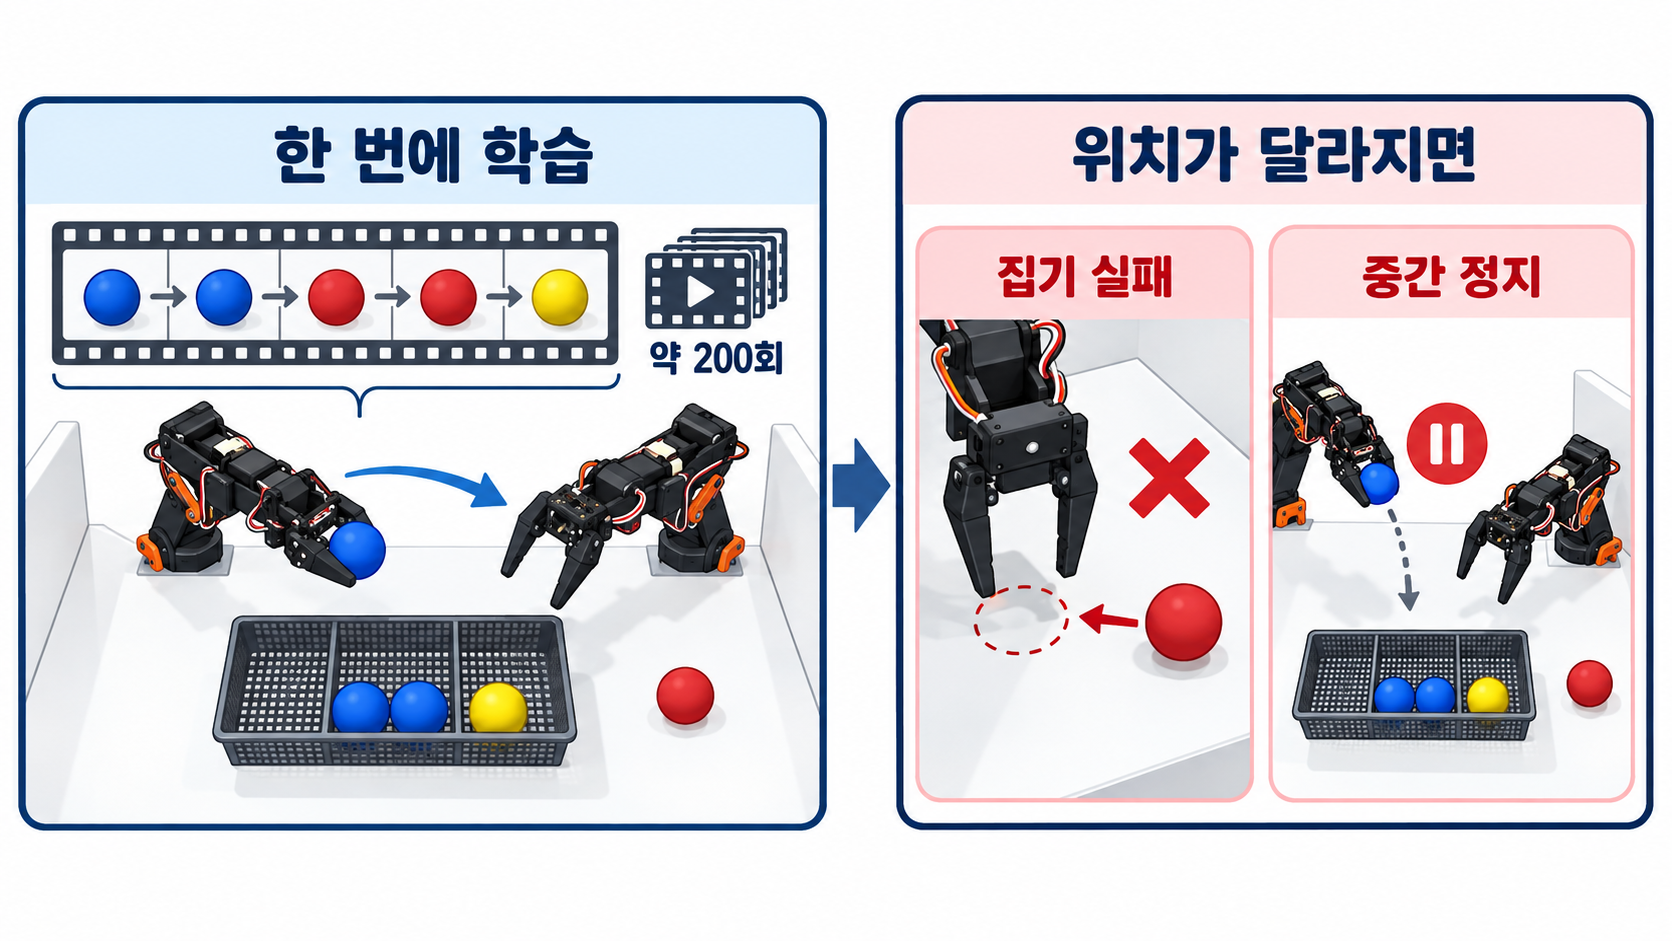
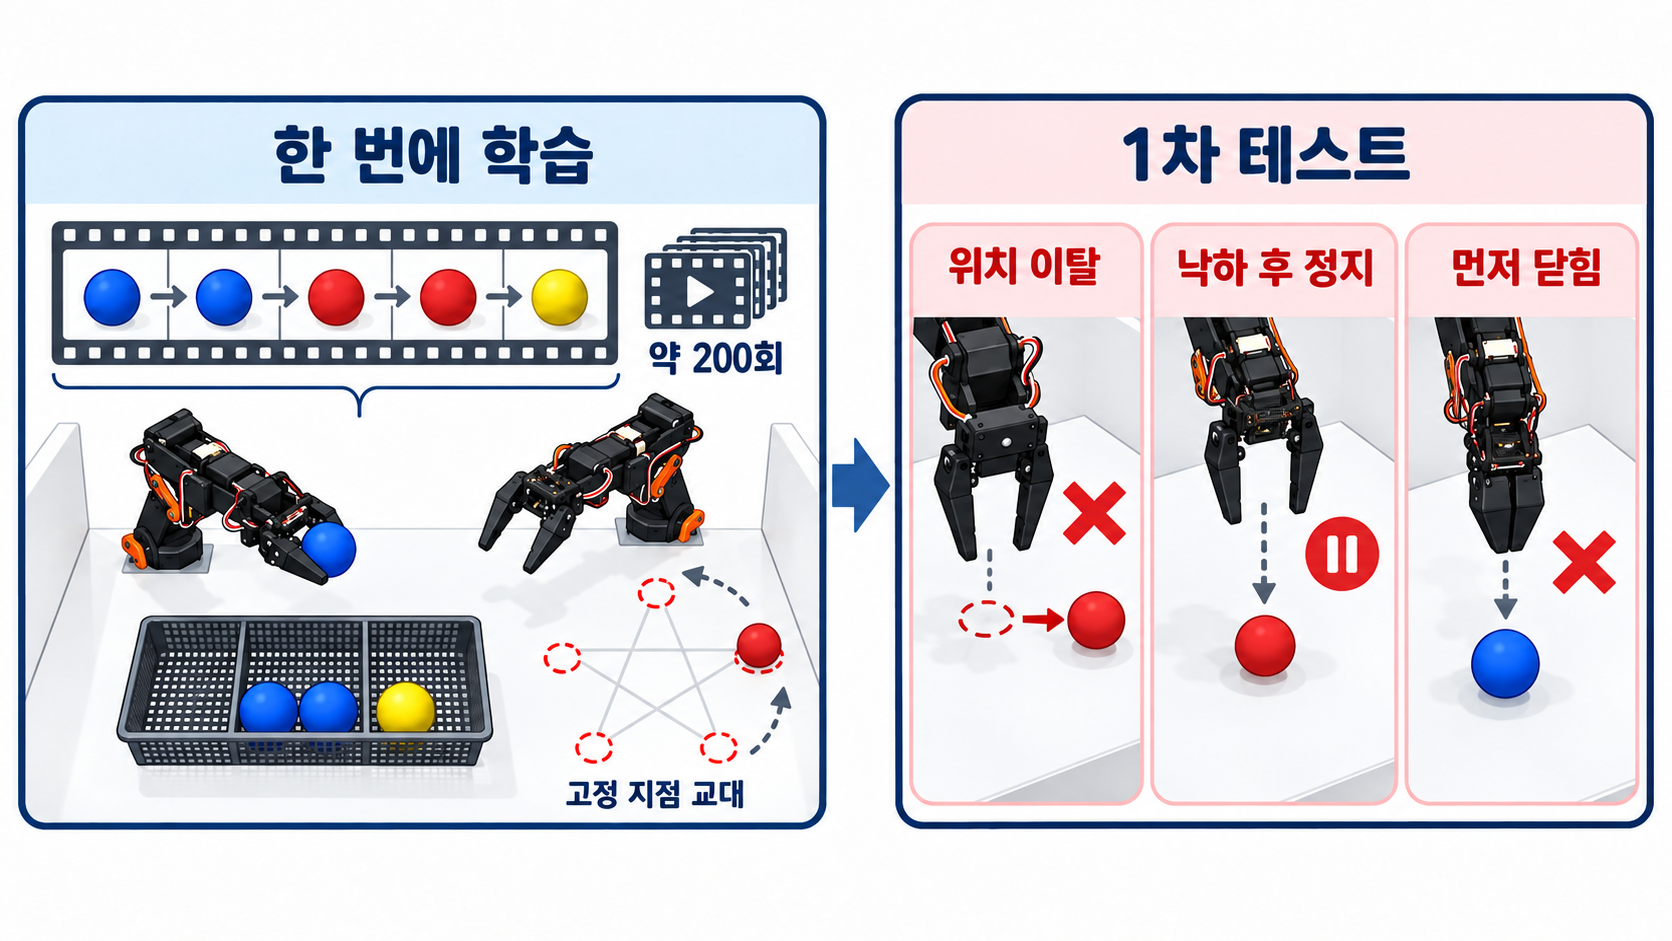
Clarify fixed pickup positions and first-test failures

diff --git a/projects/physical-ai-hackathon.html b/projects/physical-ai-hackathon.html
@@ -49,9 +49,10 @@
 
         <section class="case-section" id="ko-1차-시도-다섯-개의-공을-한-번에-학습시키기">
           <div class="case-heading"><h2>1차 시도: 다섯 개의 공을 한 번에 학습시키기</h2></div>
-          <p>공의 위치를 임의로 정해 고정한 뒤, <strong>파랑 → 파랑 → 빨강 → 빨강 → 노랑</strong> 순서로 다섯 공을 집어 전달하고 분류하는 전체 시퀀스를 한 번에 기록했습니다. 이 과정을 약 200회 반복해 학습 데이터를 수집했습니다.</p>
+          <p>수납함 오른쪽에 별 모양의 꼭짓점을 따라 공을 놓을 지점을 정하고, 이 고정 지점들을 번갈아 사용했습니다. <strong>파랑 → 파랑 → 빨강 → 빨강 → 노랑</strong> 순서로 다섯 공을 집어 전달하고 분류하는 전체 시퀀스를 한 번에 기록해, 약 200개의 시연 데이터를 수집했습니다.</p>
+<h3>1차 테스트</h3>
 <p>테스트에서는 공을 떨어뜨리면 다시 집지 못하고 멈췄고, 공이 학습 때 고정한 위치에서 벗어나면 제대로 집지 못했습니다. 수직으로 접근하는 과정에서는 공에 닿기 전에 집게를 먼저 닫는 현상도 발생했습니다.</p>
-<figure class="feature-media hackathon-act-media"><img src="../assets/images/physical-ai-first-attempt.png" alt="파랑·파랑·빨강·빨강·노랑 순서의 전체 동작을 약 200회 학습한 뒤, 위치 변화로 집기에 실패하거나 중간에 멈추는 양팔 로봇의 1차 시도를 설명한 그림" loading="lazy"></figure>
+<figure class="feature-media hackathon-act-media"><img src="../assets/images/physical-ai-first-attempt.png" alt="수납함 오른쪽의 별 모양 고정 지점을 번갈아 사용한 시연 수집과, 위치 이탈 시 집기 실패·공 낙하 후 정지·수직 접근 중 집게 조기 닫힘을 설명한 그림" loading="lazy"></figure>
         </section>
 
         <section class="case-section" id="ko-2차-시도-공-하나씩-학습하고-실패-복구도-기록하기">
@@ -63,7 +64,7 @@
 
         <section class="case-section" id="ko-심사-결과">
           <div class="case-heading"><h2>심사 결과</h2></div>
-          <p>공 5개를 각각 200회씩 시연해 약 1,000개의 학습 데이터를 수집했습니다. 오전 9시 마감에 맞춰 15,000 step까지 학습한 모델로 심사를 진행했습니다.</p>
+          <p>공 5개를 각각 200회씩 시연해 약 1,000개의 학습 데이터를 수집했습니다. 오전 9시 마감에 맞춰 15,000 step까지 학습한 모델로 심사를 진행했습니다. <a href="https://huggingface.co/Moment-Lab/act_hackathon_roboseasy_final/blob/main/train_config.json">공개 최종 모델의 학습 설정</a>은 50,000 step으로, 심사에 사용한 모델과 구분됩니다.</p>
 <p>공 3개는 집기·전달·색상별 분류까지 연속으로 성공했습니다. 네 번째 공을 처리하던 중 오른팔이 수납함을 넘어뜨려 시연을 중단해 완주하지 못했고, 아쉽게 수상하지는 못했습니다.</p>
 <figure class="feature-media hackathon-wide-media"><img src="https://raw.githubusercontent.com/TheMomentLab/physical_ai_hackathon/main/assets/demo.gif" alt="두 SO-101 로봇팔이 공을 집어 서로 전달하고 색상별 수납함에 넣는 실제 시연" loading="lazy"></figure>
         </section>
@@ -113,9 +114,10 @@
 
         <section class="case-section" id="en-first-attempt-learn-all-five-balls-in-one-sequence">
           <div class="case-heading"><h2>First attempt: learn all five balls in one sequence</h2></div>
-          <p>We chose fixed positions for the balls and recorded the full sequence of picking, transferring, and sorting them in the order <strong>blue → blue → red → red → yellow</strong> as a single episode. We repeated this process about 200 times to collect training data.</p>
+          <p>We defined fixed pickup positions at the tips of a star-shaped layout to the right of the basket and alternated between these positions. We recorded about 200 demonstrations, each covering the full sequence of picking, transferring, and sorting five balls in the order <strong>blue → blue → red → red → yellow</strong>.</p>
+<h3>First test</h3>
 <p>During testing, the robot stopped after dropping a ball instead of picking it up again, and struggled to grasp balls placed outside the fixed training positions. During vertical approaches, the gripper also closed before reaching the ball.</p>
-<figure class="feature-media hackathon-act-media"><img src="../assets/images/physical-ai-first-attempt.png" alt="Illustration of the first attempt: about 200 demonstrations of blue, blue, red, red, and yellow balls in one sequence, followed by missed grasps and mid-sequence stops when positions change" loading="lazy"></figure>
+<figure class="feature-media hackathon-act-media"><img src="../assets/images/physical-ai-first-attempt.png" alt="Alternating fixed pickup points in a star-shaped layout beside the basket, followed by failed grasps outside those points, stopping after a dropped ball, and premature gripper closure during vertical approach" loading="lazy"></figure>
         </section>
 
         <section class="case-section" id="en-second-attempt-learn-one-ball-at-a-time-and-record-recovery">
@@ -127,7 +129,7 @@
 
         <section class="case-section" id="en-judging-result">
           <div class="case-heading"><h2>Judging result</h2></div>
-          <p>We collected about 1,000 training demonstrations, 200 for each of five balls. To meet the 9 a.m. deadline, we used the model trained to 15,000 steps for judging.</p>
+          <p>We collected about 1,000 training demonstrations, 200 for each of five balls. To meet the 9 a.m. deadline, we used the model trained to 15,000 steps for judging. The <a href="https://huggingface.co/Moment-Lab/act_hackathon_roboseasy_final/blob/main/train_config.json">published final model configuration</a> specifies 50,000 steps, distinct from the model used for judging.</p>
 <p>The robots picked, transferred, and sorted three balls consecutively. While handling the fourth, the right arm knocked over a bin, ending the demonstration before we could complete the full sequence. Unfortunately, we did not win an award.</p>
 <figure class="feature-media hackathon-wide-media"><img src="https://raw.githubusercontent.com/TheMomentLab/physical_ai_hackathon/main/assets/demo.gif" alt="Two SO-101 arms picking, transferring, and sorting balls into color-coded bins" loading="lazy"></figure>
         </section>

diff --git a/project-data/physical-ai-hackathon.md b/project-data/physical-ai-hackathon.md
@@ -48,11 +48,13 @@ demo:
 
 ## 1차 시도: 다섯 개의 공을 한 번에 학습시키기
 
-공의 위치를 임의로 정해 고정한 뒤, **파랑 → 파랑 → 빨강 → 빨강 → 노랑** 순서로 다섯 공을 집어 전달하고 분류하는 전체 시퀀스를 한 번에 기록했습니다. 이 과정을 약 200회 반복해 학습 데이터를 수집했습니다.
+수납함 오른쪽에 별 모양의 꼭짓점을 따라 공을 놓을 지점을 정하고, 이 고정 지점들을 번갈아 사용했습니다. **파랑 → 파랑 → 빨강 → 빨강 → 노랑** 순서로 다섯 공을 집어 전달하고 분류하는 전체 시퀀스를 한 번에 기록해, 약 200개의 시연 데이터를 수집했습니다.
+
+### 1차 테스트
 
 테스트에서는 공을 떨어뜨리면 다시 집지 못하고 멈췄고, 공이 학습 때 고정한 위치에서 벗어나면 제대로 집지 못했습니다. 수직으로 접근하는 과정에서는 공에 닿기 전에 집게를 먼저 닫는 현상도 발생했습니다.
 
-<figure class="feature-media hackathon-act-media"><img src="../assets/images/physical-ai-first-attempt.png" alt="파랑·파랑·빨강·빨강·노랑 순서의 전체 동작을 약 200회 학습한 뒤, 위치 변화로 집기에 실패하거나 중간에 멈추는 양팔 로봇의 1차 시도를 설명한 그림" loading="lazy"></figure>
+<figure class="feature-media hackathon-act-media"><img src="../assets/images/physical-ai-first-attempt.png" alt="수납함 오른쪽의 별 모양 고정 지점을 번갈아 사용한 시연 수집과, 위치 이탈 시 집기 실패·공 낙하 후 정지·수직 접근 중 집게 조기 닫힘을 설명한 그림" loading="lazy"></figure>
 
 ## 2차 시도: 공 하나씩 학습하고 실패 복구도 기록하기
 
@@ -64,7 +66,7 @@ demo:
 
 ## 심사 결과
 
-공 5개를 각각 200회씩 시연해 약 1,000개의 학습 데이터를 수집했습니다. 오전 9시 마감에 맞춰 15,000 step까지 학습한 모델로 심사를 진행했습니다.
+공 5개를 각각 200회씩 시연해 약 1,000개의 학습 데이터를 수집했습니다. 오전 9시 마감에 맞춰 15,000 step까지 학습한 모델로 심사를 진행했습니다. [공개 최종 모델의 학습 설정](https://huggingface.co/Moment-Lab/act_hackathon_roboseasy_final/blob/main/train_config.json)은 50,000 step으로, 심사에 사용한 모델과 구분됩니다.
 
 공 3개는 집기·전달·색상별 분류까지 연속으로 성공했습니다. 네 번째 공을 처리하던 중 오른팔이 수납함을 넘어뜨려 시연을 중단해 완주하지 못했고, 아쉽게 수상하지는 못했습니다.
 

diff --git a/project-data/en/physical-ai-hackathon.md b/project-data/en/physical-ai-hackathon.md
@@ -30,11 +30,13 @@ A human moved the leader arms while camera images, joint states, and actions wer
 
 ## First attempt: learn all five balls in one sequence
 
-We chose fixed positions for the balls and recorded the full sequence of picking, transferring, and sorting them in the order **blue → blue → red → red → yellow** as a single episode. We repeated this process about 200 times to collect training data.
+We defined fixed pickup positions at the tips of a star-shaped layout to the right of the basket and alternated between these positions. We recorded about 200 demonstrations, each covering the full sequence of picking, transferring, and sorting five balls in the order **blue → blue → red → red → yellow**.
+
+### First test
 
 During testing, the robot stopped after dropping a ball instead of picking it up again, and struggled to grasp balls placed outside the fixed training positions. During vertical approaches, the gripper also closed before reaching the ball.
 
-<figure class="feature-media hackathon-act-media"><img src="../assets/images/physical-ai-first-attempt.png" alt="Illustration of the first attempt: about 200 demonstrations of blue, blue, red, red, and yellow balls in one sequence, followed by missed grasps and mid-sequence stops when positions change" loading="lazy"></figure>
+<figure class="feature-media hackathon-act-media"><img src="../assets/images/physical-ai-first-attempt.png" alt="Alternating fixed pickup points in a star-shaped layout beside the basket, followed by failed grasps outside those points, stopping after a dropped ball, and premature gripper closure during vertical approach" loading="lazy"></figure>
 
 ## Second attempt: learn one ball at a time and record recovery
 
@@ -46,7 +48,7 @@ We recorded the gripper approaching the ball diagonally rather than descending v
 
 ## Judging result
 
-We collected about 1,000 training demonstrations, 200 for each of five balls. To meet the 9 a.m. deadline, we used the model trained to 15,000 steps for judging.
+We collected about 1,000 training demonstrations, 200 for each of five balls. To meet the 9 a.m. deadline, we used the model trained to 15,000 steps for judging. The [published final model configuration](https://huggingface.co/Moment-Lab/act_hackathon_roboseasy_final/blob/main/train_config.json) specifies 50,000 steps, distinct from the model used for judging.
 
 The robots picked, transferred, and sorted three balls consecutively. While handling the fourth, the right arm knocked over a bin, ending the demonstration before we could complete the full sequence. Unfortunately, we did not win an award.
 
